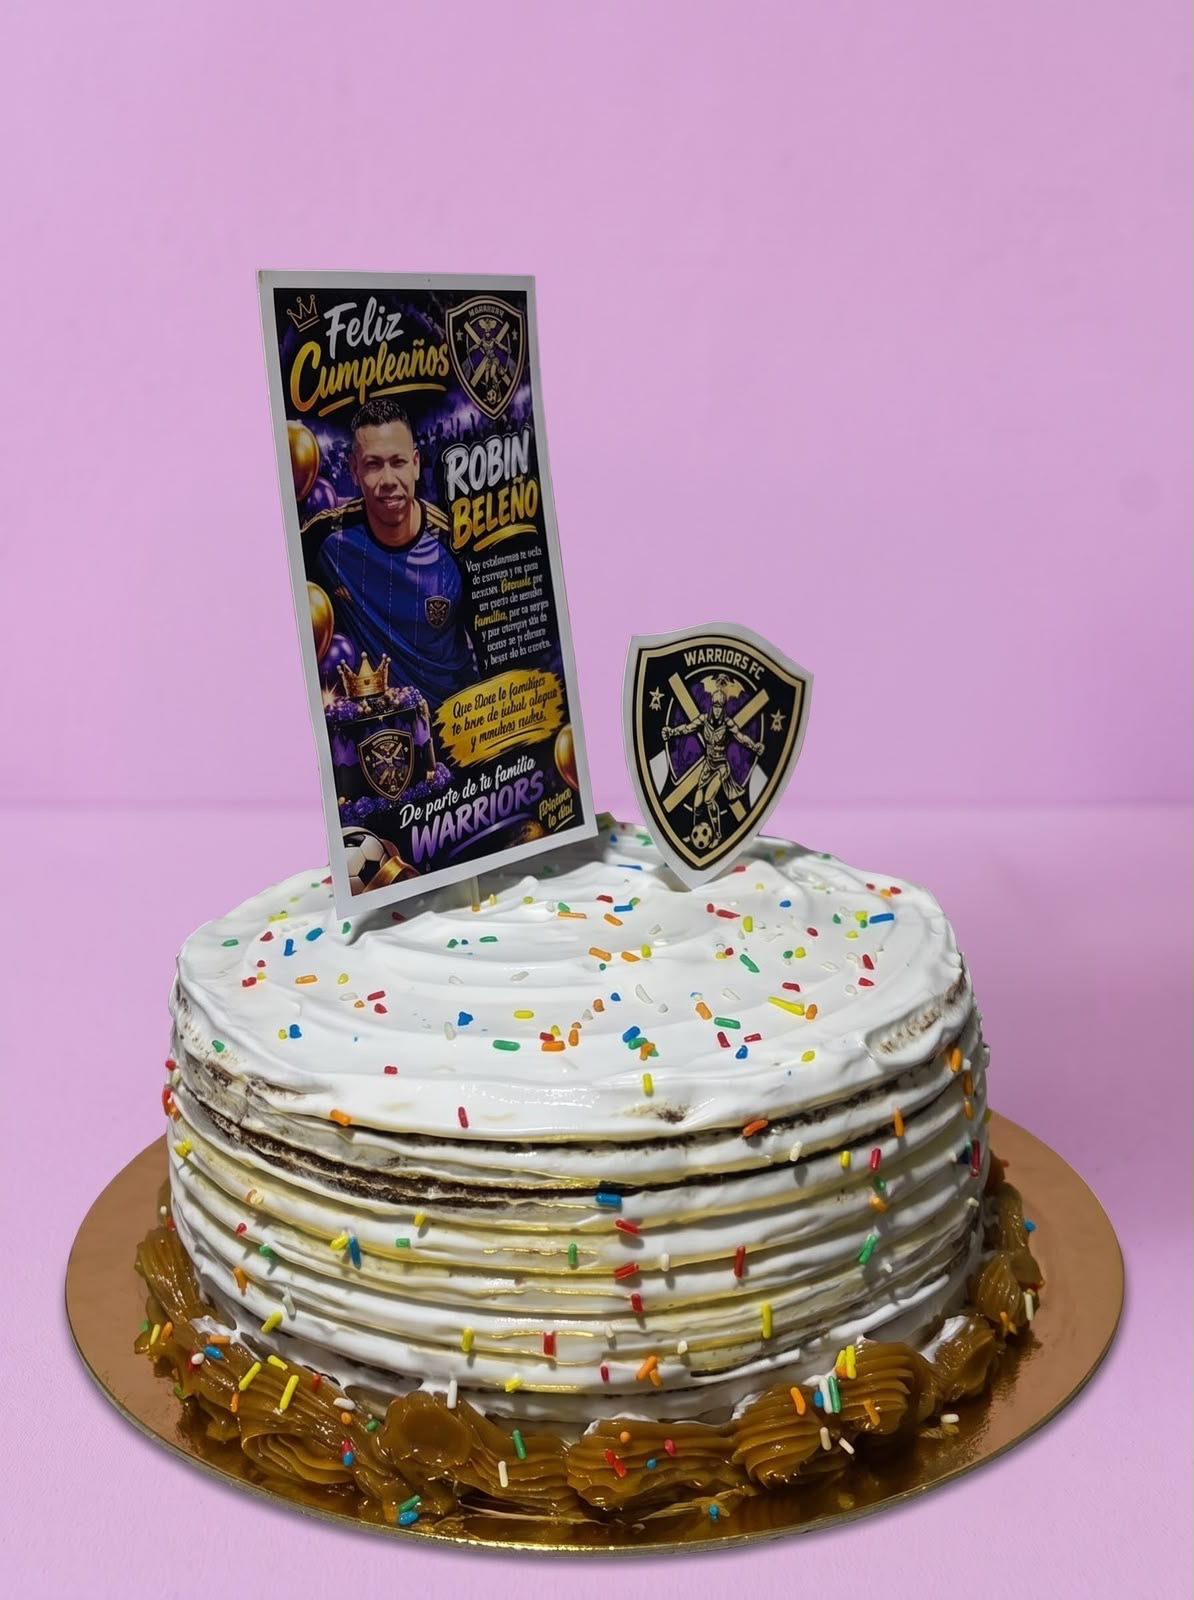
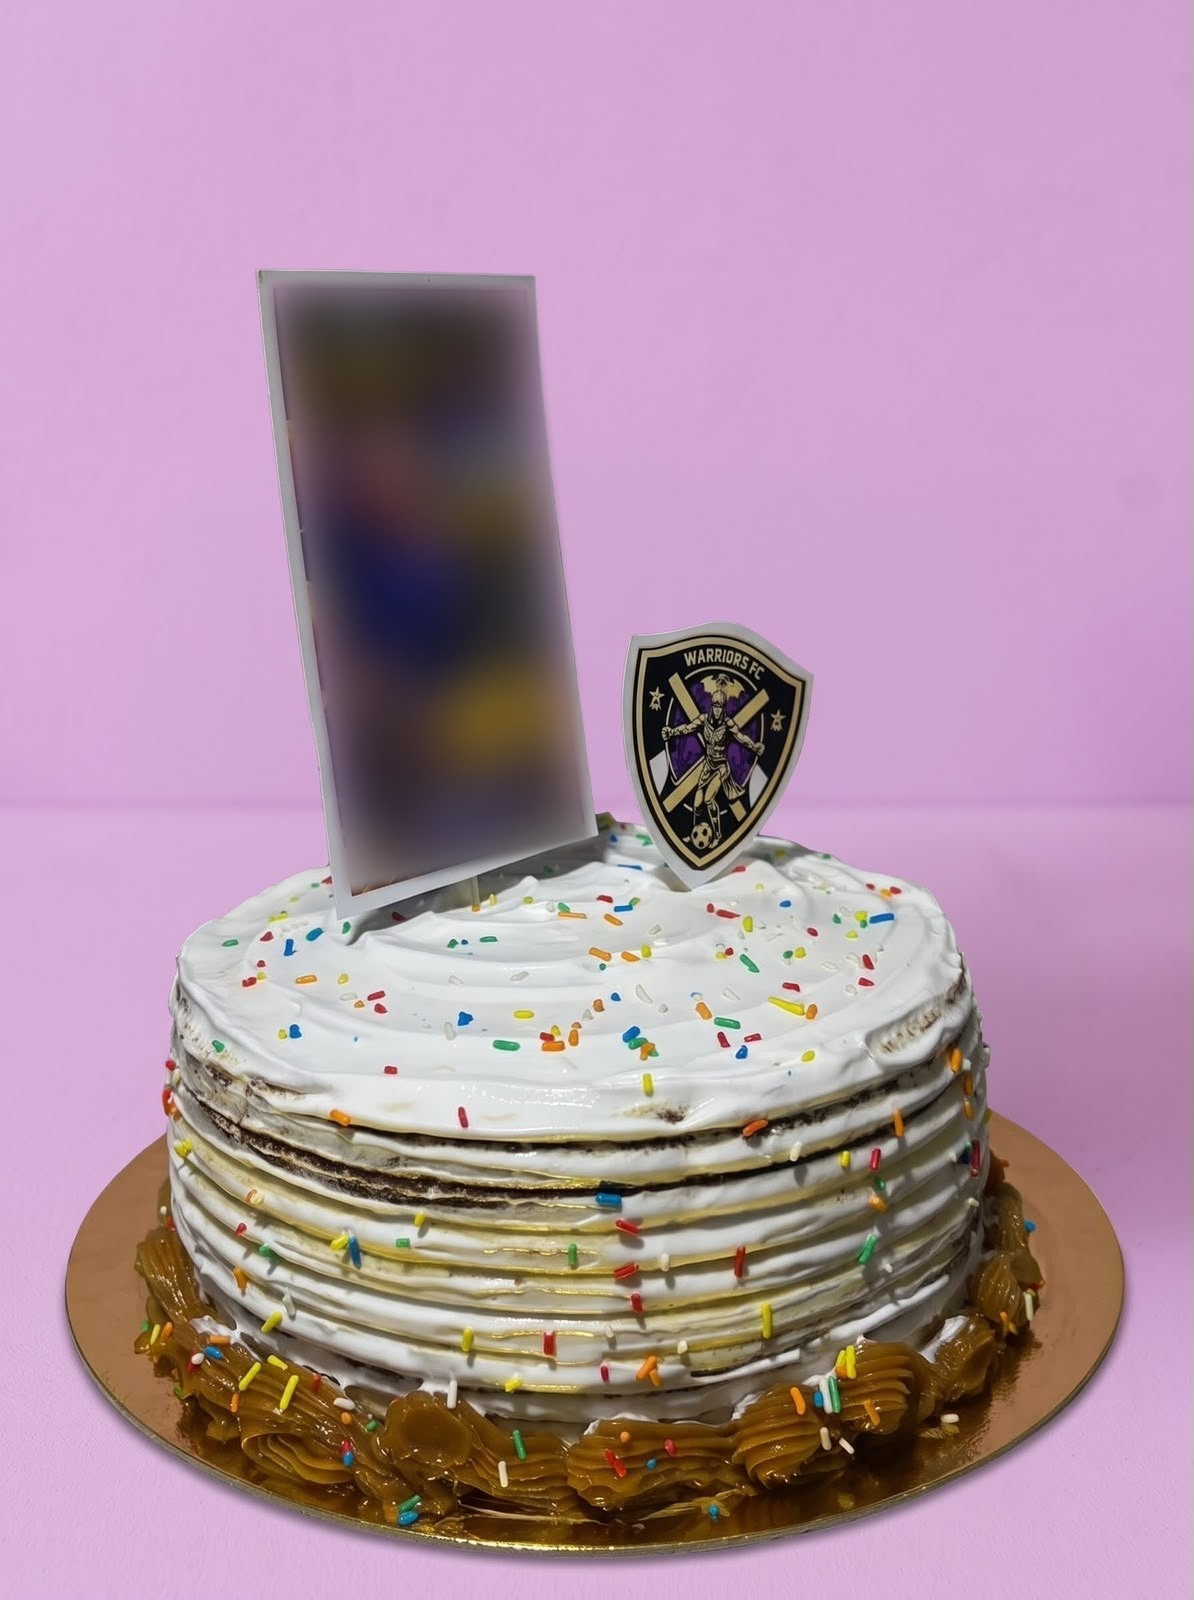
Tortas: Strawberry Kiss, sin encargo y foto de Berry Love difuminada
- "Fresas & Oreo" pasa a llamarse Strawberry Kiss (también sus fotos)
- Las tortas ya no son por encargo: se piden como cualquier producto y la
  fecha del pedido sigue siendo opcional; texto de la sección sin encargo
- Berry Love: la tarjeta con la cara y el nombre de la persona va
  difuminada en la foto (y en la original guardada)

Claude-Session: https://claude.ai/code/session_01GHyyVr5iuHvK63zJVmzS7n

Changed region(s): [[0.2169, 0.1562, 0.4958, 0.5625]]

diff --git a/assets/js/menu.js b/assets/js/menu.js
@@ -113,7 +113,7 @@ window.HM_ADICIONES = {
       posicion: "center 80%"
     },
 
-    /* ===== Tortas de 1 Lb, por encargo (sección "Tortas") =====
+    /* ===== Tortas de 1 Lb (sección "Tortas") =====
        Precio según el relleno: chocolate $130.000 · fresas con crema $120.000 · Oreo $110.000 ·
        dulce de leche $105.000 (sin relleno, $90.000: no se ofrece en la página). */
     {
@@ -123,19 +123,17 @@ window.HM_ADICIONES = {
       nombreCompleto: "Torta Choco Moon",
       descripcion: "🍫 Para los verdaderos amantes del chocolate. Esponjoso bizcocho de chocolate, con un delicioso relleno de ganache de chocolate y una irresistible cobertura de chocolate que hace de cada bocado una experiencia llena de sabor. 🤎✨",
       tamanos: [{ id: "1lb", nombre: "1 Lb", precio: 130000 }],
-      encargo: true,
       imagen: "assets/img/torta-choco-moon.webp",
       posicion: "center 70%"
     },
     {
-      id: "torta-fresas-oreo",
+      id: "torta-strawberry-kiss",
       categoria: "tortas",
-      nombre: "Fresas & Oreo", // nombre provisional: falta el nombre definitivo de esta torta
-      nombreCompleto: "Torta Fresas & Oreo",
+      nombre: "Strawberry Kiss",
+      nombreCompleto: "Torta Strawberry Kiss",
       descripcion: "🍓 Una combinación irresistible en cada porción. Suave bizcocho de vainilla con un delicioso relleno de dulce de leche, cubierto con cremosa buttercream, fresas frescas y un toque de Oreo triturada. ¡El equilibrio perfecto entre dulzura y textura! 🤍✨",
       tamanos: [{ id: "1lb", nombre: "1 Lb", precio: 105000 }],
-      encargo: true,
-      imagen: "assets/img/torta-fresas-oreo.webp",
+      imagen: "assets/img/torta-strawberry-kiss.webp",
       posicion: "center 88%"
     },
     {
@@ -145,7 +143,6 @@ window.HM_ADICIONES = {
       nombreCompleto: "Torta Caramel Crunch",
       descripcion: "🤎 Un delicioso bizcocho de vainilla, relleno y cubierto con una suave capa de dulce de leche, coronado con maní crocante que aporta el toque perfecto de textura y sabor. 🤎✨ ¡Una combinación irresistible para los amantes de lo dulce!",
       tamanos: [{ id: "1lb", nombre: "1 Lb", precio: 105000 }],
-      encargo: true,
       imagen: "assets/img/torta-caramel-crunch.webp",
       posicion: "center 62%"
     },
@@ -164,7 +161,6 @@ window.HM_ADICIONES = {
           { id: "oreo", nombre: "Oreo", precio: 110000 }
         ]
       },
-      encargo: true,
       aviso: "Esta torta va decorada con tus fotos: envíanoslas por WhatsApp al confirmar el pedido.",
       notaPlaceholder: "Ej: nombre, motivo de la celebración…",
       imagen: "assets/img/torta-berry-love.webp",

diff --git a/index.html b/index.html
@@ -162,7 +162,7 @@
           <div class="text-center mb-2">
             <span class="hm-kicker">para celebrar</span>
             <h2 class="hm-section-title" id="tortasTitle" tabindex="-1">Tortas</h2>
-            <p class="hm-section-sub">De 1 libra y hechas por encargo: pídelas con al menos <span data-dias-encargo>2</span> días de anticipación.</p>
+            <p class="hm-section-sub">Tortas de 1 libra para celebrar con los que más quieres.</p>
           </div>
           <div class="row row-cols-1 row-cols-sm-2 row-cols-xl-4 g-4 justify-content-center" data-categoria="tortas"></div>
         </section>

diff --git a/assets/js/app.js b/assets/js/app.js
@@ -473,7 +473,6 @@
     $$("[data-categoria]").forEach((el) => {
       el.innerHTML = MENU.filter((p) => p.categoria === el.dataset.categoria).map((p) => tarjeta(p)).join("");
     });
-    $$("[data-dias-encargo]").forEach((el) => (el.textContent = CFG.diasEncargo));
   }
 
   /* =====================================================

diff --git a/README.md b/README.md
@@ -75,12 +75,12 @@ Las ciudades de domicilio (`zonas`: hoy Barranquilla y Soledad), el horario (hoy
 
 ## Tortas
 
-Sección propia dentro del menú (`#tortas`, con enlace en la navegación y el pie). Muestra los productos con `categoria: "tortas"`: tortas de 1 Lb, todas `encargo: true` (el pedido exige fecha con `diasEncargo` días de anticipación, hoy 2). Precios según el relleno:
+Sección propia dentro del menú (`#tortas`, con enlace en la navegación y el pie). Muestra los productos con `categoria: "tortas"`: tortas de 1 Lb (no son por encargo: se piden como cualquier producto). Precios según el relleno:
 
 - Choco Moon (relleno de chocolate): $130.000.
-- Fresas & Oreo (relleno de dulce de leche): $105.000. **El nombre es provisional**: falta el definitivo.
+- Strawberry Kiss (relleno de dulce de leche): $105.000.
 - Caramel Crunch (relleno de dulce de leche): $105.000.
-- Berry Love (decorada con las fotos del cliente): el cliente elige el relleno, Fresas con crema $120.000, Dulce de leche $110.000 u Oreo $110.000. El detalle avisa que las fotos se envían por WhatsApp.
+- Berry Love (decorada con las fotos del cliente): el cliente elige el relleno, Fresas con crema $120.000, Dulce de leche $110.000 u Oreo $110.000. El detalle avisa que las fotos se envían por WhatsApp. En su foto de ejemplo, la tarjeta con la cara y el nombre de la persona va difuminada.
 
 La torta de 1 Lb sin relleno vale $90.000, pero no se ofrece en la página. Las fotos están en `assets/img/torta-*.webp` (originales en `assets/img/originales/`).
 
